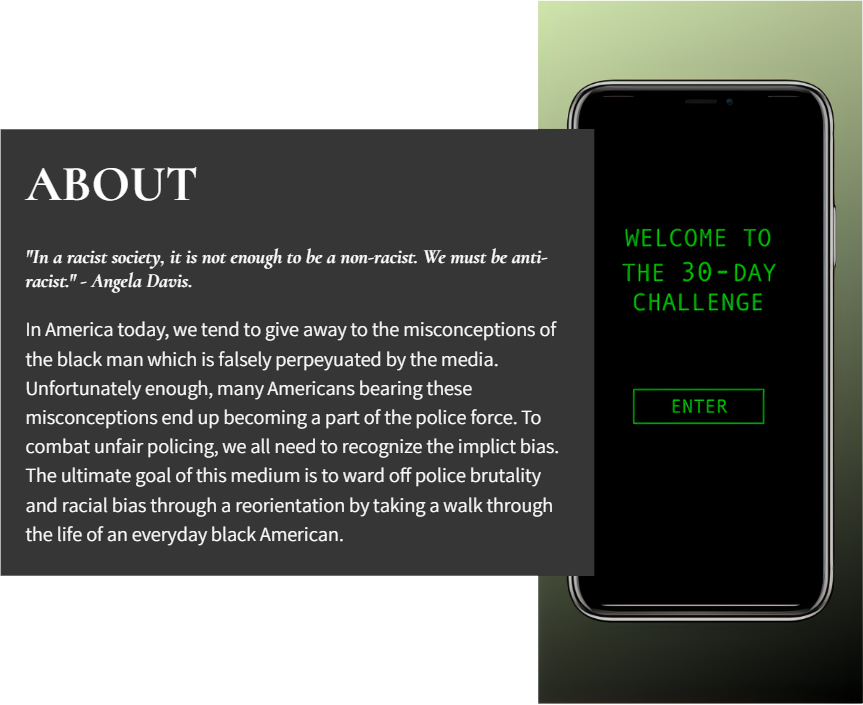
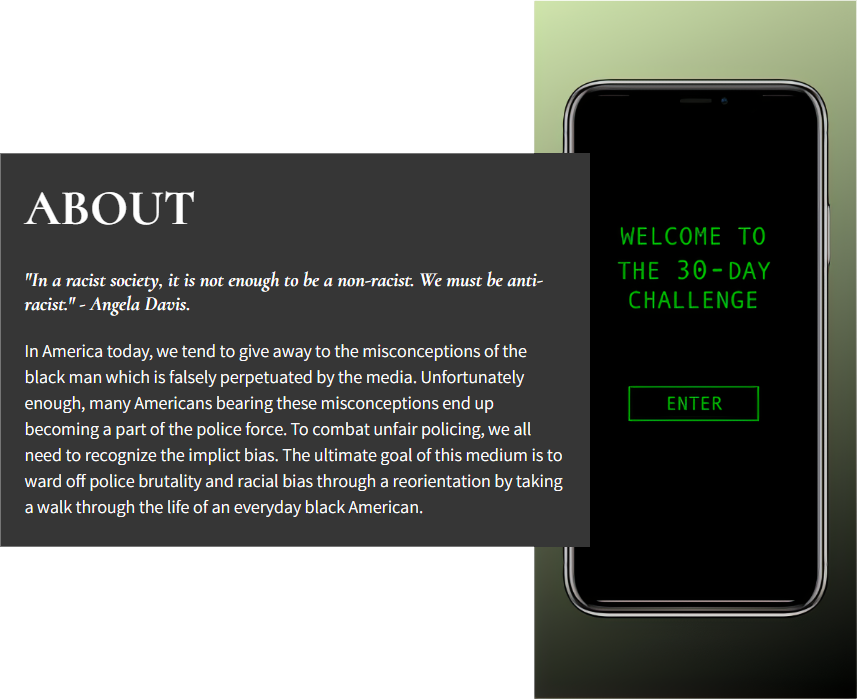
fixed last image issue

diff --git a/index.html b/index.html
@@ -46,7 +46,7 @@
                 </h5>
                 
                 <h5 id="second">
-                    In America today, we tend to give away to the misconceptions of the black man which is falsely perpeyuated by the media. Unfortunately enough, many Americans bearing these misconceptions end up becoming a part of the police force. To combat unfair policing, we all need to recognize the implict bias. The ultimate goal of this medium is to ward off police brutality and racial bias through a reorientation by taking a walk through the life of an everyday black American. 
+                    In America today, we tend to give away to the misconceptions of the black man which is falsely perpetuated by the media. Unfortunately enough, many Americans bearing these misconceptions end up becoming a part of the police force. To combat unfair policing, we all need to recognize the implict bias. The ultimate goal of this medium is to ward off police brutality and racial bias through a reorientation by taking a walk through the life of an everyday black American. 
                 </h5>
             </div>
         </div>
